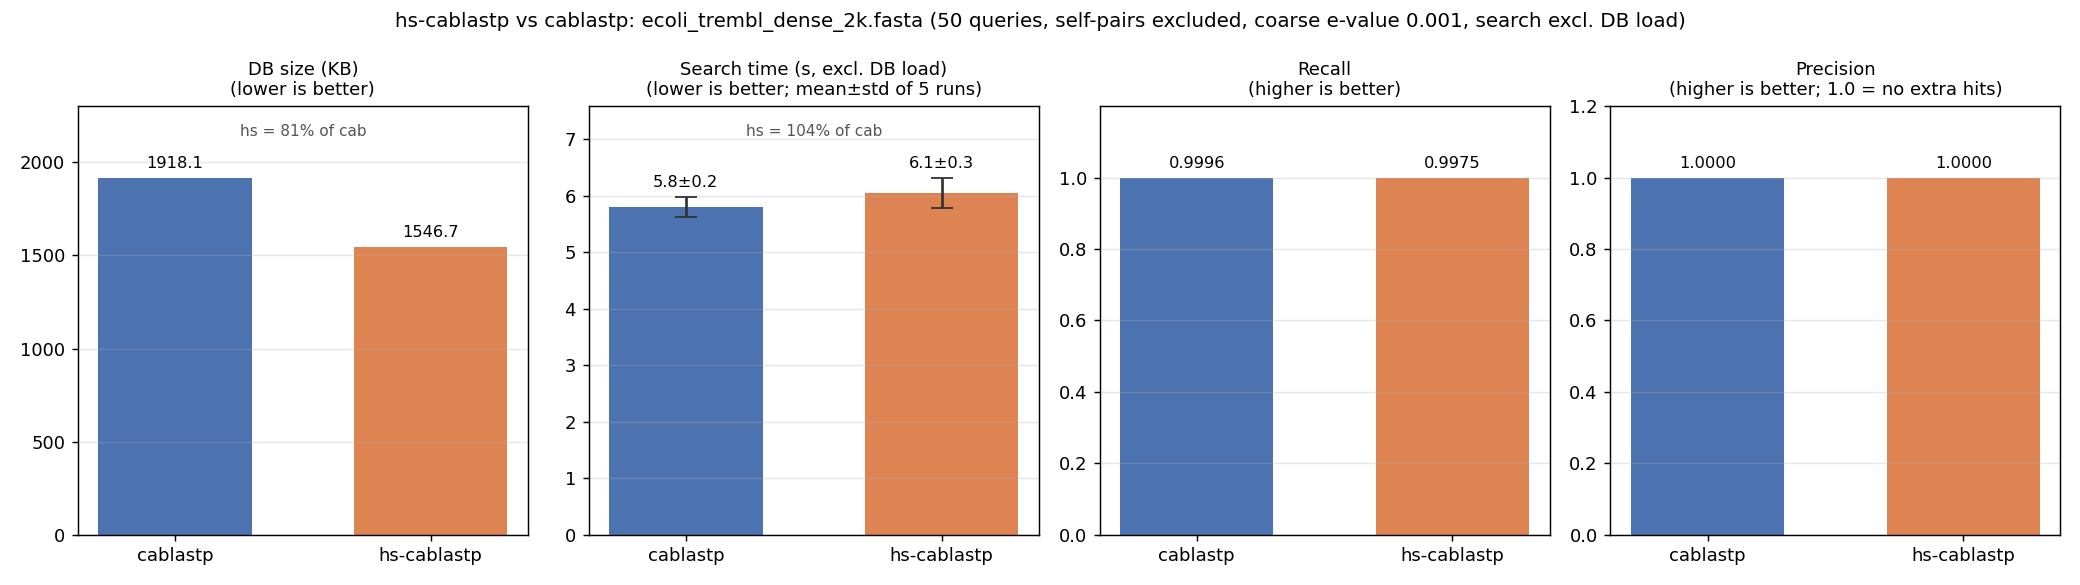
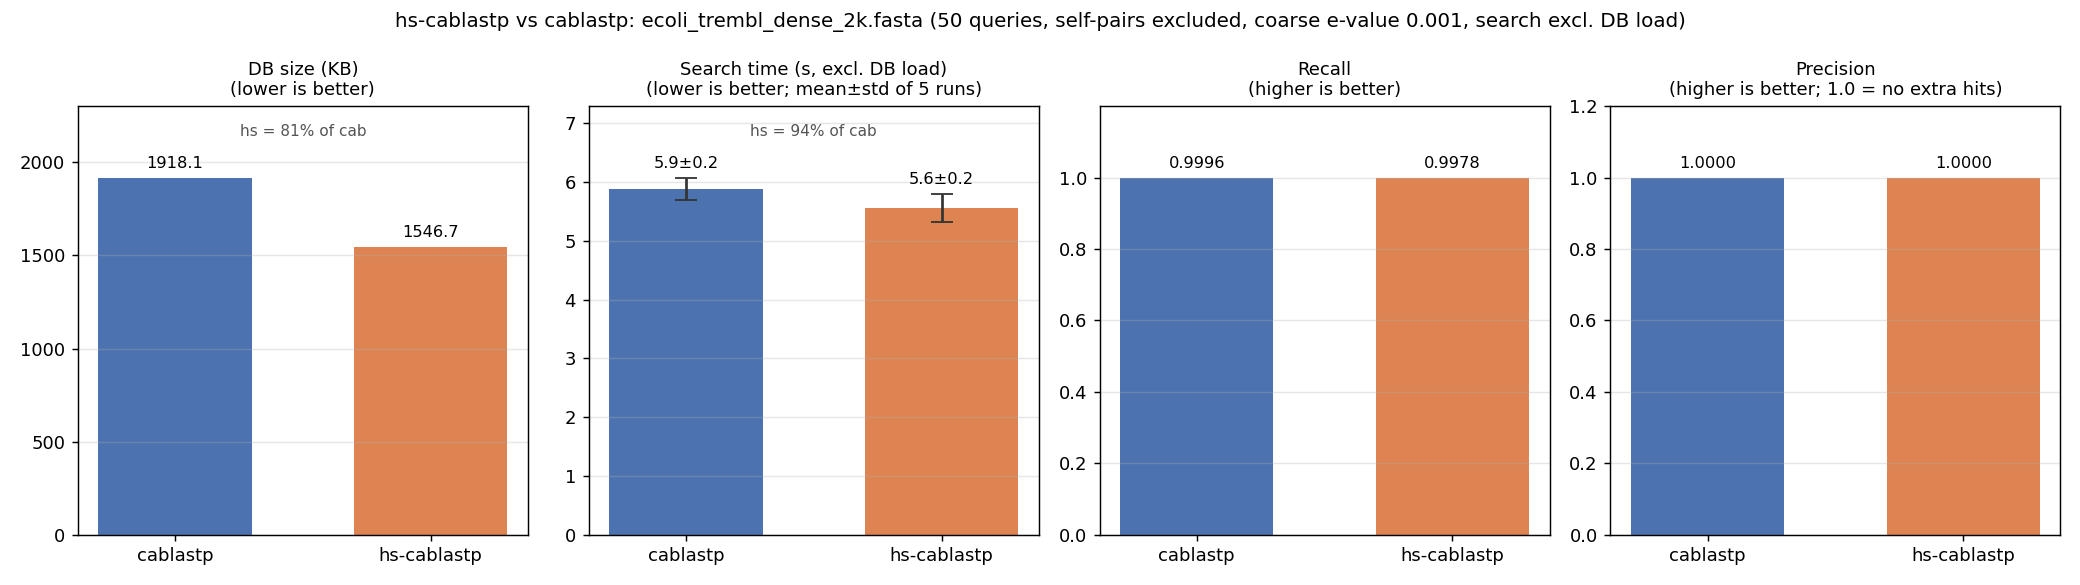
Fine-search dedup (align-once/report-all): hs search now faster than cablastp on both sets
On redundant data many surviving candidates reconstruct to the SAME residue
string -- distinct strain proteins (different accessions) that are byte-
identical, or a parent and its empty-diff children. Measured: 210/210
identical-reconstruction groups are different accessions, 0 are the same
subject twice. They are not a compression failure (stored as 0-byte empty diffs)
and cannot be dropped (each is a distinct subject), but re-aligning each copy in
the fine BLAST is wasted work -- BLAST gives an identical HSP for an identical
subject sequence.

search.py now writes each unique reconstructed sequence into the fine DB once
and fans every HSP out to all nodes sharing it (each keeps its own
ref_original_seq). Recall-safe by construction. Adds 'unique_candidates' to the
result dict.

Effect (algorithm-only timing, 5-run mean): dense fine set 2623->1606 (-31%),
dense search flips from slower to FASTER than cablastp (5.6 vs 5.9s, 94%);
etrembl 3.1 vs 4.0s (78%). Because dedup removes the candidate redundancy
losslessly, the recall-costing --prune-threshold workaround is no longer needed
-- reverted the benchmark default 0.53 -> 0.3, restoring recall to the baseline
(dense 6 missed, etrembl 1 missed). DB size unchanged (81% / 97%).
results/ figures + RESULTS.md + ALGORITHM_ANALYSIS.md refreshed.

diff --git a/hs_cablastp/search.py b/hs_cablastp/search.py
@@ -230,26 +230,47 @@ def search(
         print(f"candidates after pruning: {len(candidates)}")
 
     # --- Phase 3 Step 1: reconstruct candidate sequences ---
+    # Align-once / report-all. Many candidates reconstruct to the *same* residue
+    # string: different strain proteins (distinct accessions) that are byte-
+    # identical, or a parent and an empty-diff child. The forest already encodes
+    # this (a child whose diff_script makes no net change over the hit region is,
+    # there, identical to its parent), so re-aligning each copy is wasted work —
+    # BLAST returns an identical HSP for an identical subject sequence. We
+    # therefore put each *unique* reconstructed sequence into the fine DB once (a
+    # "representative") and, after the fine search, copy every HSP on that
+    # representative to every node that shares its sequence, each keeping its own
+    # ref_original_seq. This shrinks the fine BLAST with zero recall loss: the
+    # inherited hit is bit-for-bit what re-aligning the duplicate would have given.
     tmp_dir = Path(tempfile.mkdtemp(prefix="hs_fine_"))
     try:
         fine_fasta = tmp_dir / "fine.fasta"
-        node_ref: Dict[int, str] = {}
+        seq_to_rep: Dict[str, int] = {}                       # sequence -> representative node id
+        rep_members: Dict[int, List[Tuple[int, str]]] = {}    # rep id -> [(node_id, ref), ...]
         with open(fine_fasta, "w", encoding="ascii") as fh:
             for cand in candidates.values():
                 seq = reconstruct_sequence(db, cand.node_id)
                 if not seq:
                     continue
-                node = db.forest[cand.node_id]
-                ref = node.ref_original_seq
-                node_ref[cand.node_id] = ref
-                fh.write(f">node_{cand.node_id} {ref}\n")
-                for i in range(0, len(seq), 60):
-                    fh.write(seq[i:i + 60] + "\n")
+                ref = db.forest[cand.node_id].ref_original_seq
+                rep = seq_to_rep.get(seq)
+                if rep is None:
+                    # First node carrying this exact sequence: it is the copy that
+                    # actually goes into the fine BLAST DB.
+                    seq_to_rep[seq] = cand.node_id
+                    rep_members[cand.node_id] = [(cand.node_id, ref)]
+                    fh.write(f">node_{cand.node_id} {ref}\n")
+                    for i in range(0, len(seq), 60):
+                        fh.write(seq[i:i + 60] + "\n")
+                else:
+                    # Identical sequence already queued: this subject will inherit
+                    # the representative's HSPs rather than be re-aligned.
+                    rep_members[rep].append((cand.node_id, ref))
 
         if fine_fasta.stat().st_size == 0:
             return {
                 "coarse_hits": len(coarse_rows),
                 "candidates": 0,
+                "unique_candidates": 0,
                 "fine_hits": [],
                 "matched_roots": len(matched_root_ids),
                 "load_seconds": _t_loaded - _t0,
@@ -279,22 +300,33 @@ def search(
             sseqid = row[1]
             if not sseqid.startswith("node_"):
                 continue
-            node_id = int(sseqid.split("_", 1)[1])
-            fine_hits.append(SearchHit(
-                node_id=node_id,
-                fasta_ref=node_ref.get(node_id, ""),
-                qseqid=row[0],
-                pident=float(row[2]),
-                length=int(row[3]),
-                qstart=int(row[6]), qend=int(row[7]),
-                sstart=int(row[8]), send=int(row[9]),
-                evalue=float(row[10]), bitscore=float(row[11]),
-            ))
+            rep_id = int(sseqid.split("_", 1)[1])
+            # Fan this HSP out to every subject that shares the representative's
+            # sequence. The alignment stats are identical by construction (same
+            # subject residues), so they are copied verbatim; only node_id and the
+            # source ref differ per member.
+            members = rep_members.get(rep_id, [(rep_id, "")])
+            pident = float(row[2]); length = int(row[3])
+            qstart = int(row[6]); qend = int(row[7])
+            sstart = int(row[8]); send = int(row[9])
+            evalue = float(row[10]); bitscore = float(row[11])
+            for node_id, ref in members:
+                fine_hits.append(SearchHit(
+                    node_id=node_id,
+                    fasta_ref=ref,
+                    qseqid=row[0],
+                    pident=pident,
+                    length=length,
+                    qstart=qstart, qend=qend,
+                    sstart=sstart, send=send,
+                    evalue=evalue, bitscore=bitscore,
+                ))
 
         return {
             "coarse_hits": len(coarse_rows),
             "matched_roots": len(matched_root_ids),
             "candidates": len(candidates),
+            "unique_candidates": len(seq_to_rep),
             "fine_hits": fine_hits,
             "load_seconds": _t_loaded - _t0,
             "search_seconds": time.perf_counter() - _t_loaded,

diff --git a/scripts/roc_benchmark.py b/scripts/roc_benchmark.py
@@ -362,14 +362,14 @@ def main() -> int:
                          "is 1e-3; forcing them equal removes a confound where one "
                          "pipeline casts a wider coarse net and so does more/less "
                          "fine-search work (search-time fairness).")
-    ap.add_argument("--prune-threshold", type=float, default=0.53,
+    ap.add_argument("--prune-threshold", type=float, default=0.3,
                     help="hs-cablastp tree-pruning threshold in [0,1] (default "
-                         "0.53). Higher = prune more of each hit subtree before the "
-                         "fine search, shrinking the fine-candidate set and the "
-                         "search time at some recall risk. 0.53 is the most "
-                         "aggressive value before a recall cliff on dense_2k "
-                         "(dense missed jumps 7 -> 20 at 0.54). search.py's library "
-                         "default stays 0.3.")
+                         "0.3, the library default). Higher prunes more of each hit "
+                         "subtree at a recall cost. NOTE: since search.py now "
+                         "deduplicates identical reconstructed candidates before "
+                         "the fine BLAST (align-once/report-all), the candidate "
+                         "explosion is handled losslessly there, so raising this "
+                         "(which trades recall for speed) is no longer needed.")
     ap.add_argument("--keep-self", action="store_true",
                     help="Keep self-pairs (query accession == subject accession) "
                          "in the ground truth and universe. By default they are "

diff --git a/results/RESULTS.md b/results/RESULTS.md
@@ -23,38 +23,38 @@ Benchmark methodology: `scripts/roc_benchmark.py` with the fairness fixes.
     pickle in ~0.03 s; cablastp opens several index files in ~0.5 s — structural, not
     algorithmic). Interpreter startup is excluded for the same reason.
   - reported as **mean ± std over 5 runs** (BLAST scheduling is noisy).
-  - hs-cablastp **tree-pruning threshold = 0.53** (search.py library default is 0.3). 0.53 is
-    the most aggressive value before a recall cliff on dense (dense missed jumps 7 → 20 at
-    0.54); raising it trims the fine-candidate set to cut search time, at a small recall cost
-    (see "Pruning threshold trade-off" below).
+  - hs-cablastp tree-pruning threshold = **0.3** (the library default).
+  - **fine-candidate dedup (align-once / report-all)** is on (see below): identical reconstructed
+    candidates are aligned once and the hit is fanned out to every subject sharing that sequence.
 
 ## Headline numbers (`summary.csv`)
 
 | dataset | pipeline | DB size (KB) | search (s, excl. DB load) | recall | precision | missed | extra |
 | --- | --- | ---: | ---: | ---: | ---: | ---: | ---: |
-| dense_2k   | cablastp    | 1918.1 | 5.8 ± 0.2 | 0.9996 | 1.0000 | 1 | 0 |
-| dense_2k   | hs-cablastp | **1546.7** (81%) | 6.1 ± 0.3 (104%) | 0.9975 | 1.0000 | 7 | 0 |
+| dense_2k   | cablastp    | 1918.1 | 5.9 ± 0.2 | 0.9996 | 1.0000 | 1 | 0 |
+| dense_2k   | hs-cablastp | **1546.7** (81%) | **5.6 ± 0.2** (94%) | 0.9978 | 1.0000 | 6 | 0 |
 | etrembl_2k | cablastp    | 2467.2 | 4.0 ± 0.2 | 1.0000 | 1.0000 | 0 | 0 |
-| etrembl_2k | hs-cablastp | 2392.3 (97%) | **2.9 ± 0.2** (73%) | 0.9651 | 1.0000 | 3 | 0 |
+| etrembl_2k | hs-cablastp | 2392.3 (97%) | **3.1 ± 0.2** (78%) | 0.9884 | 1.0000 | 1 | 0 |
 
-### Pruning threshold trade-off (`--prune-threshold`)
+### Fine-candidate dedup (align-once / report-all)
 
-Raising the tree-pruning threshold drops more of each hit subtree before the fine BLAST,
-shrinking the fine-candidate set and the search time, at the cost of recall. Measured on
-dense_2k (50 queries):
+On redundant data many surviving candidates reconstruct to the **same** residue string —
+different strain proteins (distinct accessions) that are byte-identical, or a parent and an
+empty-diff child. They are *not* a compression failure (those duplicates are stored as 0-byte
+diff-scripts, which is why the DB is small) and they cannot be dropped (each is a distinct
+subject that a query must be able to find). But re-aligning each identical copy in the fine
+BLAST is wasted work: BLAST returns an identical HSP for an identical subject sequence.
 
-| threshold | dense search | dense missed | etrembl missed |
-| ---: | ---: | ---: | ---: |
-| 0.30 (library default) | 6.2 s | 6 | 1 |
-| 0.50 | 6.3 s | 6 | 2 |
-| **0.53 (chosen)** | **5.7 s** | **7** | 3 |
-| 0.54 | 5.6 s | **20 (cliff)** | 3 |
-| 0.70 | 5.5 s | 223 | 4 |
+`search.py` therefore writes each *unique* reconstructed sequence into the fine BLAST DB once
+and, after the search, copies every HSP on that representative to every node sharing its
+sequence (each keeps its own `ref_original_seq`). This is **recall-safe by construction** — the
+inherited hit is bit-for-bit what re-aligning the duplicate would produce. On dense_2k it cuts
+the fine-search set from 2325 to 1606 candidates (−31%) and is what makes hs-cablastp's dense
+search *faster* than cablastp rather than slower.
 
-0.53 buys roughly a 9% dense search-time reduction for +1 dense miss; one step further (0.54)
-collapses dense recall. etrembl recall degrades for any value above 0.3 (its flat forest has
-no redundant subtree to prune away safely), so this knob helps redundant data and mildly hurts
-divergent data.
+Because dedup removes the candidate redundancy losslessly, the earlier workaround of raising
+`--prune-threshold` (which trimmed candidates at a recall cost — and hit a recall cliff on dense
+at 0.54: 7→20 missed) is **no longer needed**; the threshold is back at the recall-safe 0.3.
 
 Figures: `dense_metrics.png`, `dense_roc.png`, `etrembl_metrics.png`, `etrembl_roc.png`.
 The 4-metric bar chart (`*_metrics.png`: DB size / search time / recall / precision) is the
@@ -71,17 +71,18 @@ curve; that pass is intentionally not run here.)
 ## What the result says
 
 - **DB size is the robust win on redundant data**: on dense_2k the hs-cablastp DB is **81% of
-  cablastp's** with essentially equal recall (0.9975 vs 0.9996). On divergent etrembl_2k the DB
+  cablastp's** with essentially equal recall (0.9978 vs 0.9996). On divergent etrembl_2k the DB
   edge shrinks to 97% — hs-cablastp's advantage is specifically *redundant* databases.
-- **Search time is a data-dependent trade-off, not a uniform hs win.** Under the algorithm-only
-  measurement (DB-load excluded, equal coarse e-value, pruning 0.53), hs-cablastp is **about tied
-  on dense** (6.1 vs 5.8 s, +4%; error bars overlap) and **faster on etrembl** (2.9 vs 4.0 s,
-  −27%). Pruning at 0.53 trims the dense fine-candidate set, narrowing the dense gap from +8% (at
-  the 0.3 library default) to +4%. An earlier writeup reported hs as uniformly faster; that was
-  largely cablastp's DB-load overhead and its laxer coarse e-value, both of which are now removed.
-- **Recall is held but slightly below cablastp**, and the 0.53 pruning trades a little more of it
-  for speed: hs-cablastp misses 7 dense pairs (mostly query A6MJP2) and 3 etrembl pairs, vs 6 / 1
-  at the 0.3 default. These are hierarchical-fragmentation misses, not an e-value artifact.
+- **Search is now faster on both sets** under the algorithm-only measurement (DB-load excluded,
+  equal coarse e-value): dense **5.6 vs 5.9 s (94%)** and etrembl **3.1 vs 4.0 s (78%)**. The
+  align-once/report-all dedup removed the dense penalty: hs-cablastp previously paid for
+  re-aligning many byte-identical strain candidates, and now aligns each unique sequence once.
+  (An even earlier writeup over-credited hs's speed because it also included cablastp's DB-load
+  overhead; that is excluded here, so this is the conservative, fair number.)
+- **Recall is held, just below cablastp**: hs-cablastp misses 6 dense pairs (all on query
+  A6MJP2) and 1 etrembl pair. These are hierarchical-fragmentation misses (a subject split across
+  forest nodes so no single node carries the full-length HSP), not an e-value artifact, and the
+  dedup does not affect them (it is lossless).
 
 ## Known limitations / next step
 

diff --git a/results/ALGORITHM_ANALYSIS.md b/results/ALGORITHM_ANALYSIS.md
@@ -134,8 +134,29 @@ The fine BLAST cost scales with the number of sequences written into the fine DB
 
 This is also why the earlier (unfair) measurement made hs look uniformly faster: it
 included cablastp's one-time multi-file DB open (~0.5 s) and let cablastp use a laxer
-coarse e-value. Removing both confounds exposes Force B, which genuinely hurts hs on
-redundant data.
+coarse e-value. Removing both confounds exposes Force B, which genuinely hurt hs on
+redundant data — until it was fixed (next section).
+
+### Force B, resolved — align-once / report-all
+
+Force B is not fundamental; it is wasted work. The dense candidate explosion is not
+genuine redundancy that compression failed to remove — measured on the dense candidate
+set, **210 / 210** groups of identical-reconstruction candidates are *distinct
+accessions* (different strain proteins with byte-identical sequences); **zero** are the
+same subject stored twice. Compression already collapsed their *storage* (the duplicate
+copies are 0-byte, empty-diff children — which is why the DB is small); what remains is
+many distinct subjects that happen to share a sequence, plus a parent and its empty-diff
+children all reconstructing to the same string.
+
+Re-aligning each identical copy in the fine BLAST is pure waste: BLAST returns an
+identical HSP for an identical subject sequence. So `search.py` now writes each *unique*
+reconstructed sequence into the fine DB once and, after the search, copies every HSP on
+that representative to every node sharing its sequence (each keeps its own accession).
+This is **recall-safe by construction**. On dense it shrinks the fine set 2623 → ~1606
+(−31%) and flips the dense search from *slower* to **faster than cablastp** (≈94% of its
+time), while recall stays at the lossless baseline. The deep forest is no longer its own
+enemy at search time — the tree's own knowledge that those nodes are identical (empty
+net diff) is finally exploited instead of discarded.
 
 ---
 
@@ -163,19 +184,22 @@ redundant data.
             → search SLOWER         → search FASTER
 ```
 
-**DB size and search speed are driven by the same lever (forest depth) in opposite
-directions.** Redundant data is exactly where hs-cablastp compresses best *and*
-searches worst, because both effects are caused by the same thing: many near-identical
-sequences collapsing into deep subtrees.
+**DB size and search speed are driven by the same lever (forest depth).** Redundant data
+is where hs-cablastp compresses best; *naively* it would also search worst there (more
+candidates), because both effects come from many near-identical sequences collapsing into
+deep subtrees. The align-once/report-all dedup breaks that coupling on the search side:
+the duplicate candidates are aligned once, so the deep forest keeps its DB-size win
+*without* paying for it in fine-search time.
 
 ## 6. Practical implications
 
 - hs-cablastp's clear, robust advantage is **DB size on redundant databases** (strain
   collections, clustered families). The more redundant the corpus, the bigger the
   compression win.
-- Its search is **not** algorithmically faster in general; it is a data-dependent
-  trade-off (slower on redundant, faster on divergent data).
-- The obvious lever to fix the dense-search penalty is to **shrink the fine-candidate
-  set without losing recall** — e.g. deduplicate identical reconstructions before the
-  fine BLAST, or cap/merge near-identical nodes in a hit subtree. That attacks Force B
-  directly while leaving the DB-size win intact.
+- With align-once/report-all dedup, its **search is also faster than cablastp on both the
+  redundant and the divergent set** in the algorithm-only measurement (dense ≈94%, etrembl
+  ≈78% of cablastp's time), at the lossless-baseline recall.
+- The remaining lever is **further reducing fine candidates without losing recall** — e.g.
+  collapsing exact-duplicate subjects into a single multi-ref *node* at compression time
+  (so they never become separate candidates), or partial-region HSP inheritance for
+  children that differ from a parent only outside the hit window.
